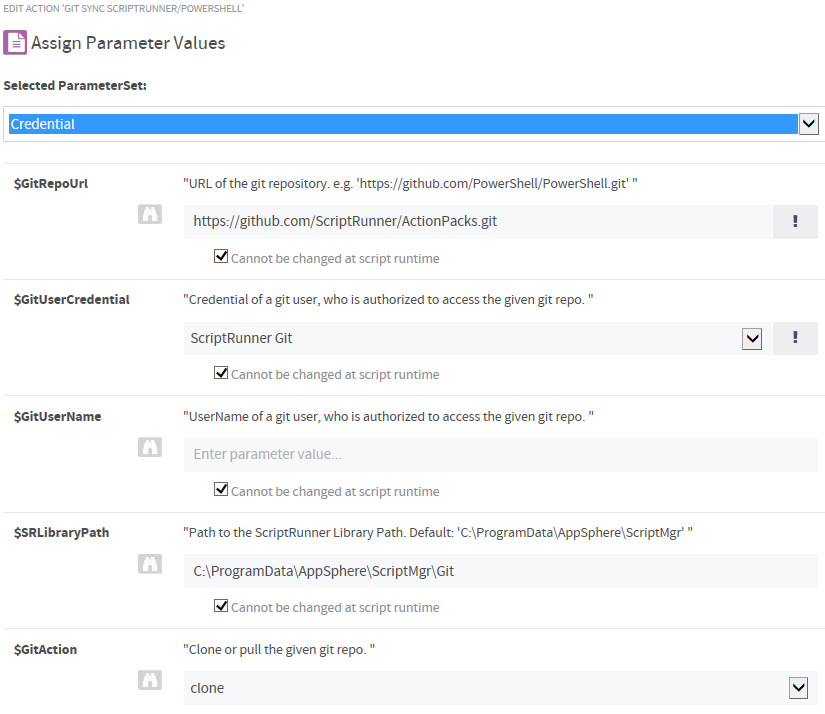
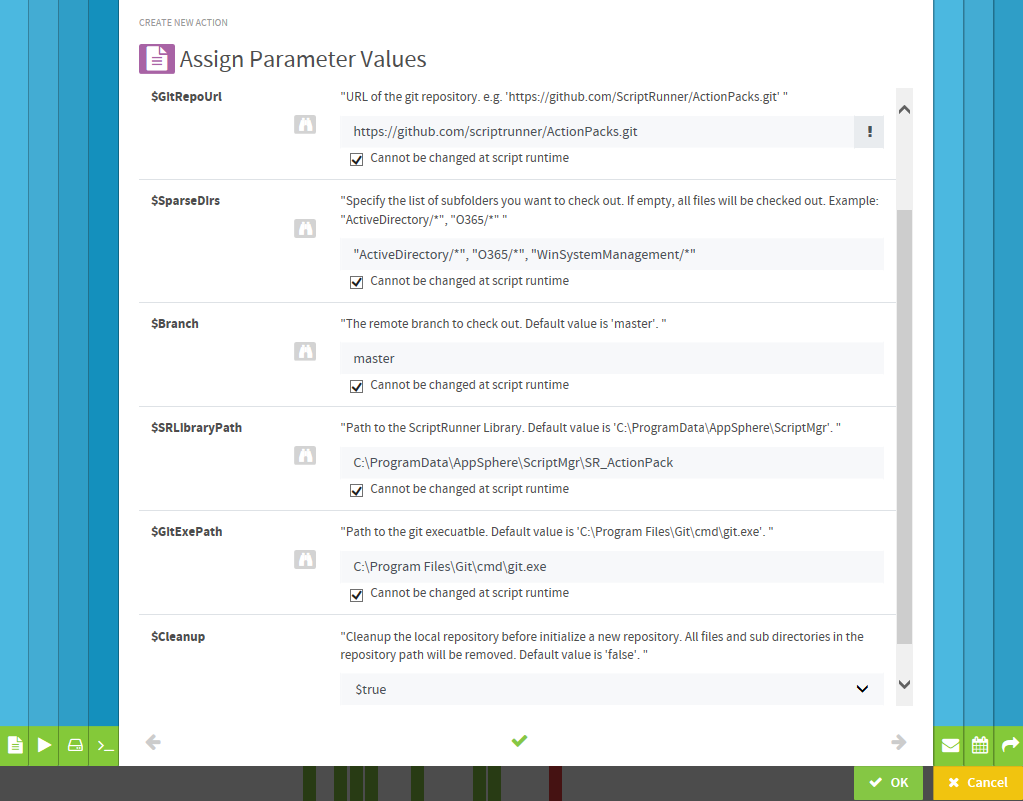
Remove simple GitSync script. Update readme. Update screenshot.

diff --git a/ScriptRepoSync/GitSync/readme.md b/ScriptRepoSync/GitSync/readme.md
@@ -1,6 +1,6 @@
 # Sync Git repositories to ScriptRunner
 
-You can use the [Invoke-GitSync.ps1](./Invoke-GitSync.ps1) script to clone a Git repository to the ScriptRunner Library or pull updates to a local repository.
+You can use the [Invoke-GitSparseCheckout.ps1](./Invoke-GitSparseCheckout.ps1) script to clone a Git repository to the ScriptRunner Library or pull updates to a local repository.
 
 The script requires [Git for Windows](https://git-for-windows.github.io). You can download this tool from [GitHub](https://github.com/git-for-windows/git/releases).
 
@@ -12,29 +12,42 @@ The script requires [Git for Windows](https://git-for-windows.github.io). You ca
 
 - GitUserCredential
 
-    Credential of a git user, who is authorized to access the given git repository. Note that an email address is not a valid account name. You must use this ParameterSet for private repositories.
+    PSCredential of a git user, who is authorized to access the given git repository. Note that an email address is not a valid account name. You must use this ParameterSet for private repositories.
 
-- GitUserName
+- SparseDirs
 
-    UserName of a git user, who is authorized to access the given git repository. Note that an email address is not a valid account name. You can use this ParameterSet for public repositories.
+    Specify the list of subfolders you want to check out. If empty, all files will be checked out.
+    Example: `"ActiveDirectory/*", "O365/*"`
+
+- Branch
+
+    The remote branch to check out.
+    Default: `master`.
 
 - SRLibraryPath
 
     Path to the ScriptRunner Library Path.
     Default: `C:\ProgramData\AppSphere\ScriptMgr`
 
-- GitAction
+- GitExePath
 
-    `Clone` or `pull` the given git repository. Use `clone` for a initial download and `pull` to update already cloned repositories.
+    Path to the git execuatble.
+    Default: `C:\Program Files\Git\cmd\git.exe`.
+
+- Cleanup
+
+    Cleanup the local repository before initialize a new repository.
+    All files and sub directories in the repository path will be removed.
+    Default: `false`.
 
 ## How-To create a ScriptRunner Action
 
 - Install `Git for Windows` at the ScriptRunner service host.
-- Download the [Invoke-GitSync.ps1](./Invoke-GitSync.ps1) script to the ScriptRunner script repository. The default location of the ScriptRunner script repository is `C:\ProgramData\AppSphere\ScriptMgr`.
+- Download the [Invoke-GitSparseCheckout.ps1](./Invoke-GitSparseCheckout.ps1) script to the ScriptRunner script repository. The default location of the ScriptRunner script repository is `C:\ProgramData\AppSphere\ScriptMgr`.
 - Use the ScriptRunner Admin App to
-  - create a Credential with UserName and Password for authenthication at the git server, if you want to clone a private git repository. If you want to clone a public repository, you can use the `UserName` ParameterSet.
-  - create a new `Action` with the [Invoke-GitSync.ps1](./Invoke-GitSync.ps1) script.
-  - select `Direct Service Execution` as target of the `Action`.
+  - create a Credential with UserName and Password for authenthication at the git server, if you want to clone a private git repository. A credential is not required, if you want to clone a public repository.
+- create a new `Action` with the [Invoke-GitSparseCheckout.ps1](./Invoke-GitSparseCheckout.ps1) script.
+  - select the target `Direct Service Execution` in the new `Action` wizard.
   - set the required script parameters to `Cannot be changed at script runtime` to enable scheduling for the `Action`.
   - example for the assignment of action parameters:
 
